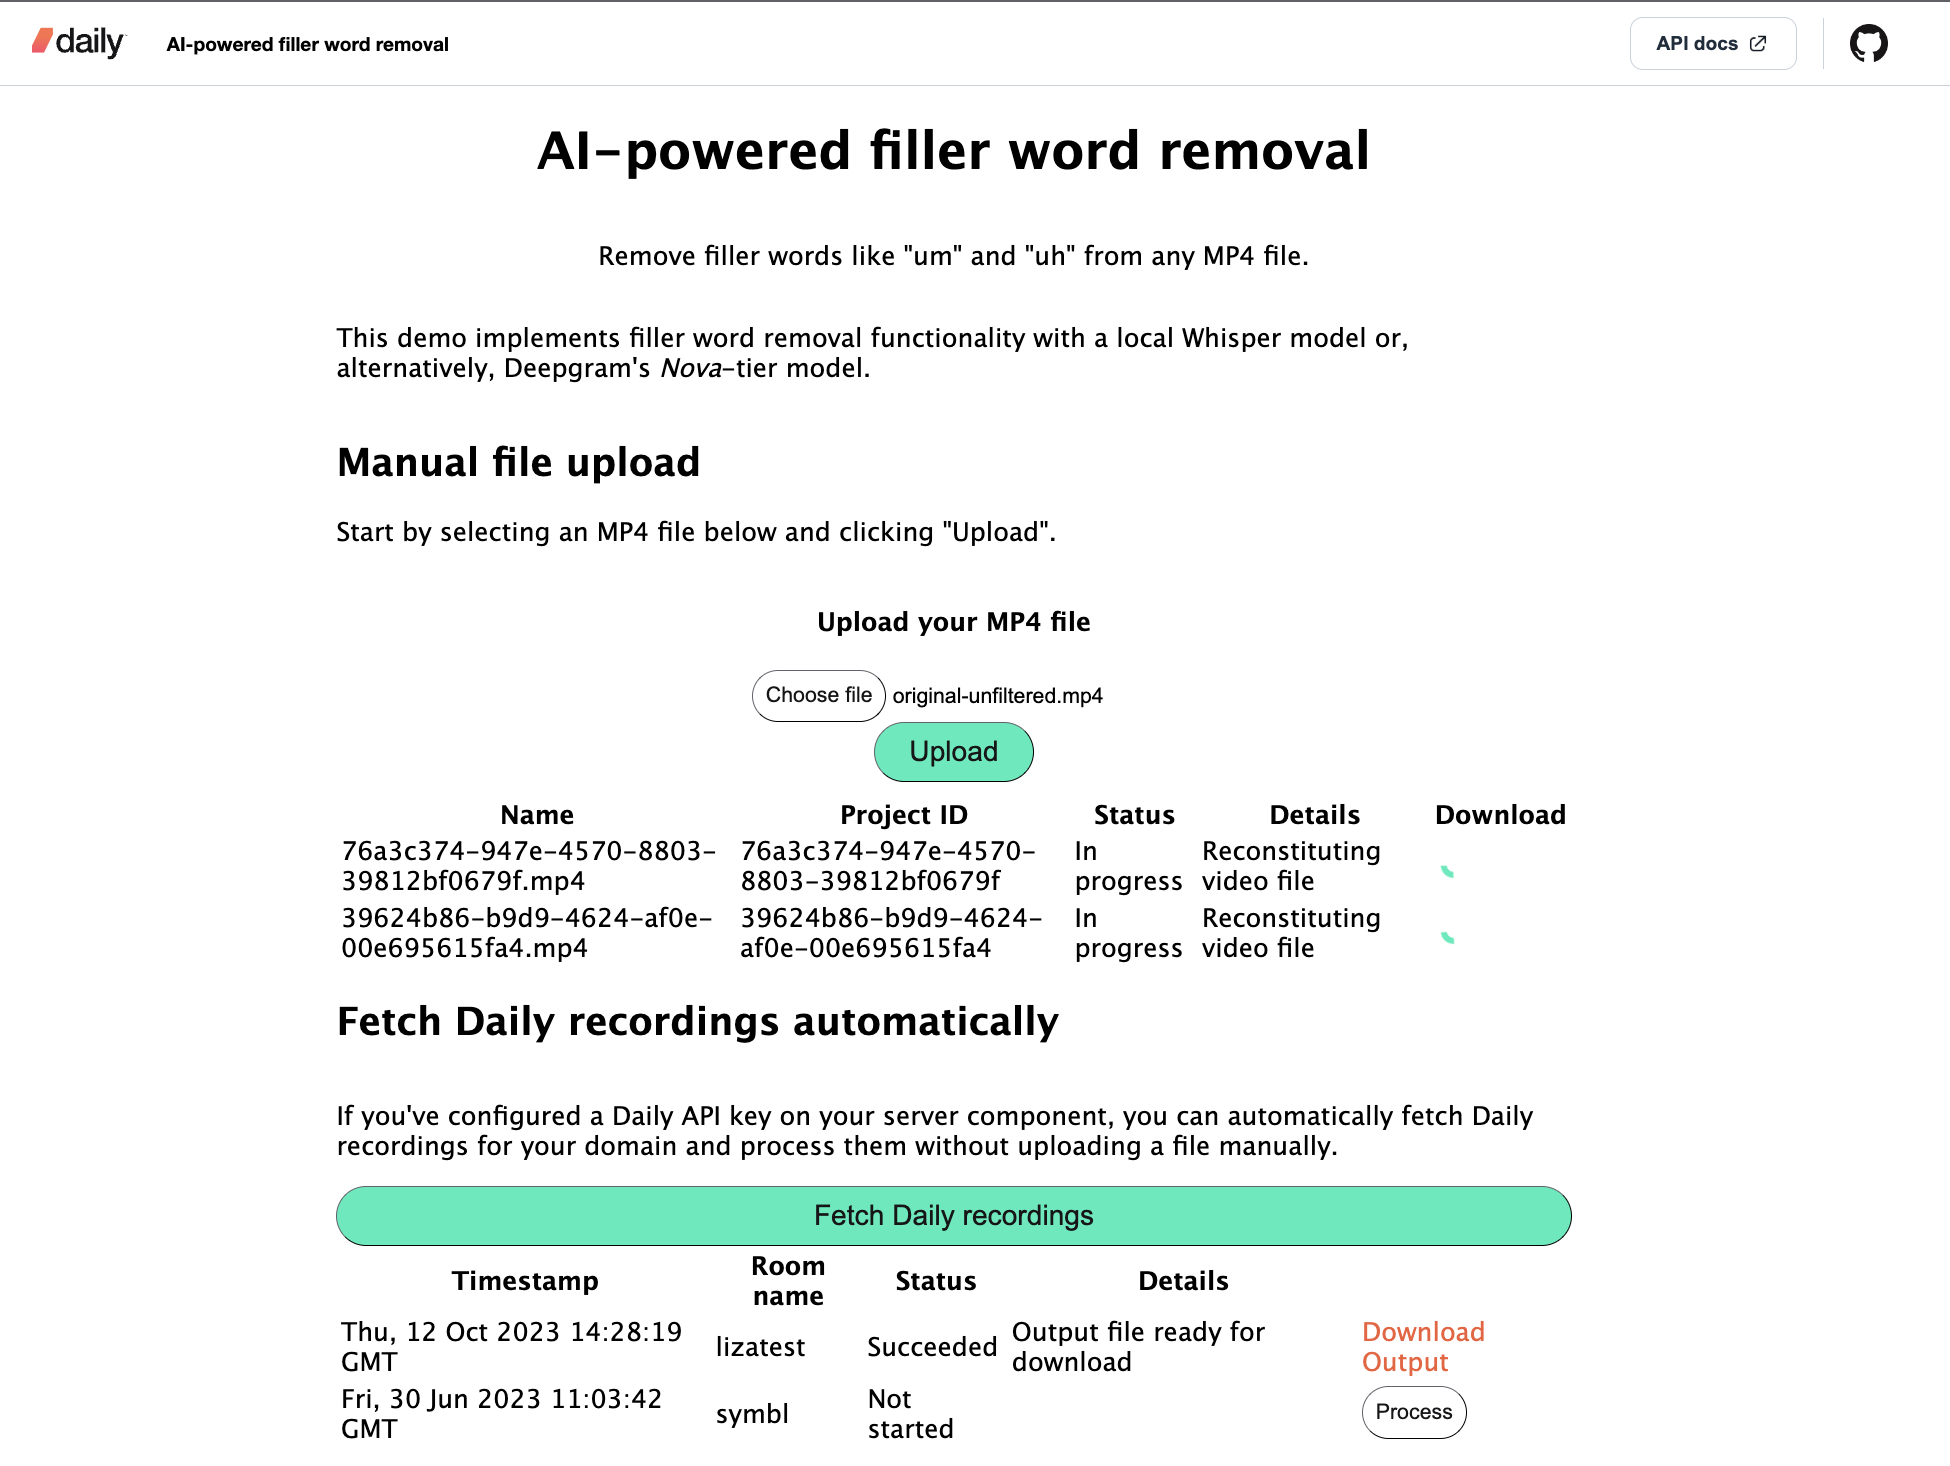
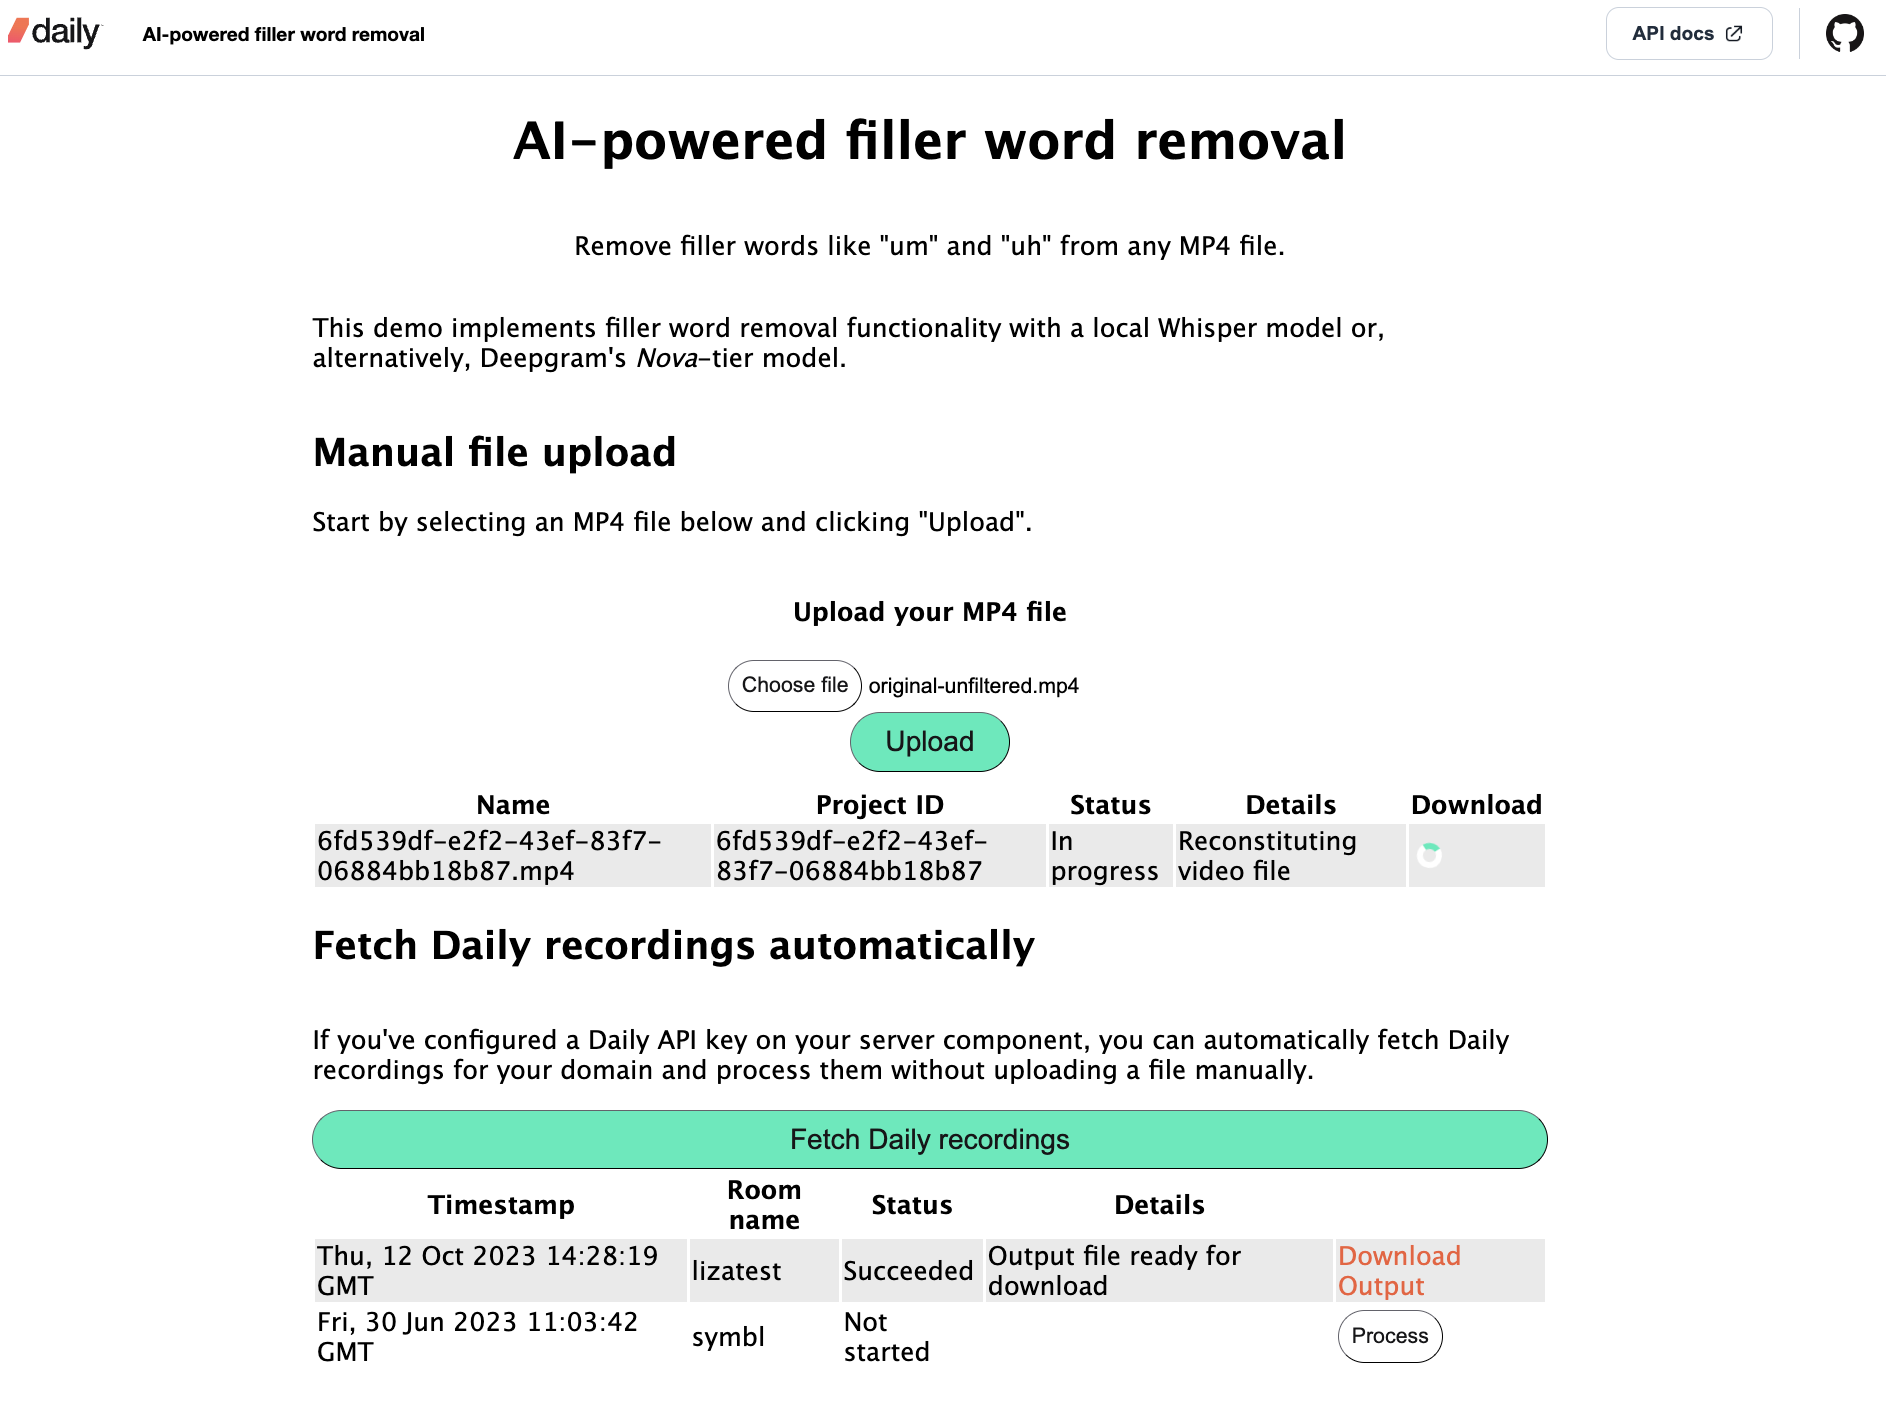
Update screenshot

diff --git a/client/css/style.css b/client/css/style.css
@@ -12,6 +12,7 @@
     --dark-muted: rgb(86, 86, 92);
 
     --light: rgb(255,255,255);
+    --light-slightly-muted: rgb(234, 234, 234);
     --light-muted: rgb(145, 145, 145);
 
 }
@@ -144,6 +145,21 @@ table {
     flex-direction: column;
 }
 
+/* Tables */
+
+tbody tr:nth-child(odd) {
+    background-color: var(--light);
+}
+
+tbody tr:nth-child(even) {
+    background-color: var(--light-slightly-muted);
+}
+
+table {
+    background-color: var(--light);
+}
+
+/* Spinner */
 .spinner {
     border: 4px solid var(--light); 
     border-top: 4px solid var(--teal);
